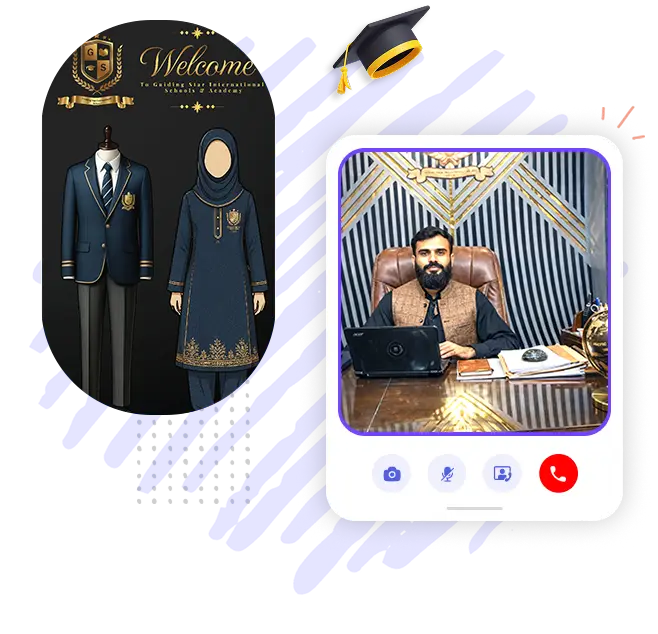
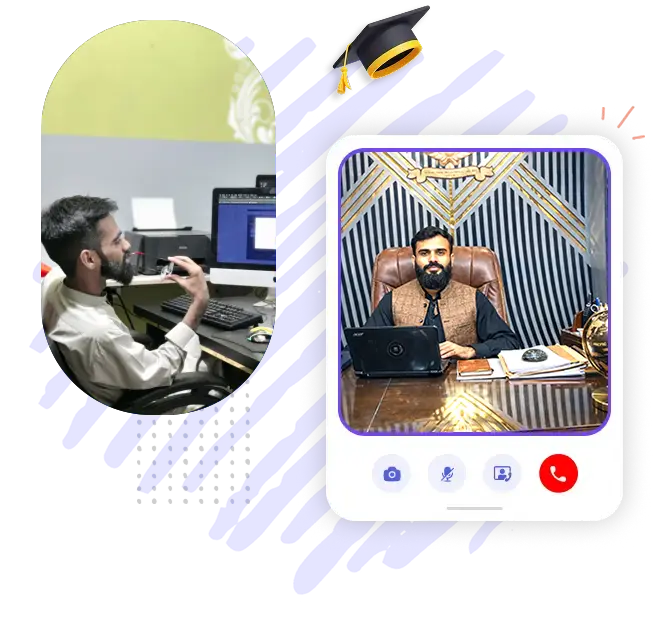
fixes

diff --git a/resources/views/frontend/home.blade.php b/resources/views/frontend/home.blade.php
@@ -214,7 +214,7 @@
             <!-- Left column (image) -->
             <div class="col-12 col-md-6 left" data-aos="fade-up" data-aos-delay="400" data-aos-duration="500">
                 <div class="bg-gradient"></div>
-                <img src="/assets/images/desk-his-bedroom.webp" alt="" class="img-fluid">
+                <img src="/assets/images/gsipic2.png" alt="" class="img-fluid">
             </div>
 
             <!-- Right column (text) -->
@@ -259,7 +259,7 @@
         <div class="row">
             <div class="col-12 col-md-6 rightt" data-aos="fade-up" data-aos-delay="400" data-aos-duration="500">
                 <div class="bg-gradient"></div>
-                <img src="/assets/images/classroom-study-space.webp" alt="" class="img-fluid">
+                <img src="/assets/images/gsipic27.png" alt="" class="img-fluid">
             </div>
             <div class="col-12 col-md-6 ps-md-5 next-gen" data-aos="fade-up" data-aos-delay="500" data-aos-duration="500">
                 <h2>Building Brighter Futures <span> with GSI Schools</span></h2>
@@ -313,7 +313,7 @@
      data-aos="fade-up" data-aos-delay="500" data-aos-duration="500">
     <div class="position-relative w-100">
         <div class="bg-gradient position-absolute w-100 h-100"></div>
-        <img src="/assets/images/confident-businesswoman.webp" alt="" class="img-fluid">
+        <img src="/assets/images/gsipic33.png" alt="" class="img-fluid">
     </div>
 </div>
 
@@ -360,7 +360,7 @@
                 <div class="col-md-6 left">
                     <div class="img-con">
                         <img class="bg-effect" src="assets/images/girl-bg 3.svg" alt="">
-                        <img class="front-img" src="/assets/images/i-did-it.webp" alt="">
+                        <img class="front-img" src="/assets/images/gsipicn9.png" alt="">
                         <div class="bg-object"></div>
                     </div>
                 </div>
